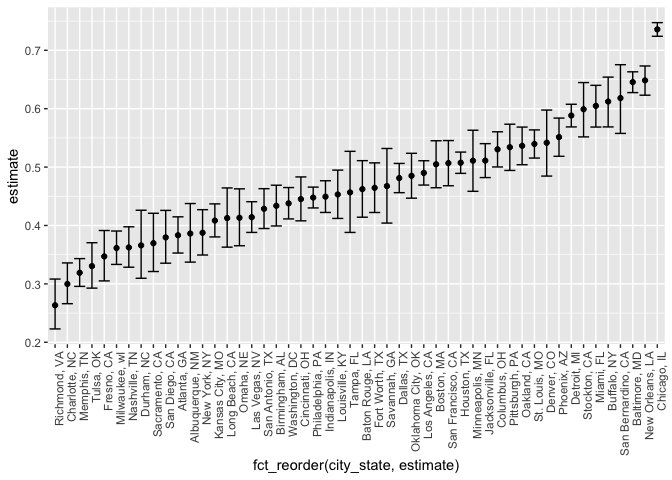
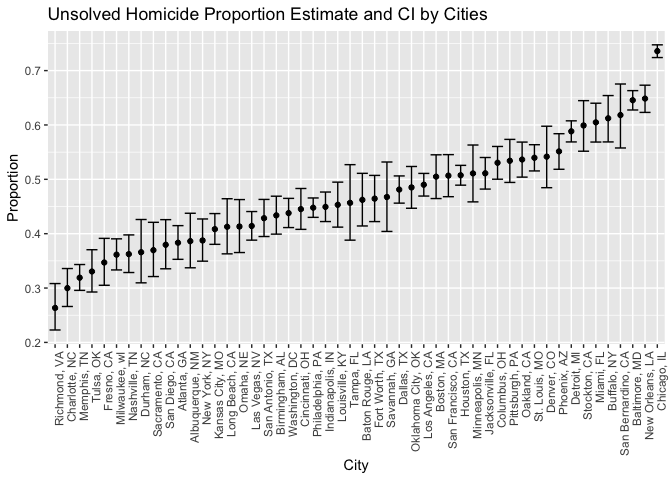
add comment

diff --git a/p8105_hw5_hy2580.md b/p8105_hw5_hy2580.md
@@ -10,15 +10,12 @@ library(purrr)
 library(rvest)
 ```
 
-Problem 1
+### Problem 1
 
-This zip file contains data from a longitudinal study that included a control arm and an experimental arm. Data for each participant is included in a separate file, and file names include the subject ID and arm.
-
-Create a tidy dataframe containing data from all participants, including the subject ID, arm, and observations over time:
-
-Start with a dataframe containing all file names; the list.files function will help
+Read files of the study
 
 ``` r
+# select only study data
 files = list.files("data")[-21]
   
 
@@ -31,11 +28,12 @@ read_file = function(x) {
 study_data = map_df(files, read_file)
 ```
 
-Iterate over file names and read in data for each subject using purrr::map and saving the result as a new variable in the dataframe Tidy the result; manipulate file names to include control arm and subject ID, make sure weekly observations are “tidy”, and do any other tidying that’s necessary
+Tidy Data
 
 ``` r
 tidy_data = study_data %>% 
   select(file_name, everything()) %>% 
+  # separate "file name"" to "arm" and "id""
   separate(file_name, into = c("arm","id"), sep = "_") %>% 
   mutate(arm_id = str_replace(id,".csv", ""),
          id = row_number()) %>% 
@@ -46,38 +44,45 @@ Make a spaghetti plot showing observations on each subject over time, and commen
 
 ``` r
 tidy_data %>% 
-  ggplot(aes(week, observation, group = id, color = arm)) + geom_line()
+  ggplot(aes(week, observation, group = id, color = arm)) + 
+  geom_line() +
+  labs(title = "Observation on Study Participant in Control Arm and in Experimental Arm")
 ```
 
 ![](p8105_hw5_hy2580_files/figure-markdown_github/unnamed-chunk-3-1.png)
 
-Problem 2
+The observation of participants in experimental arm appears to have an upward trend as time goes on, while participants in the control arm doesn't show significant change over time.
 
-The Washington Post has gathered data on homicides in 50 large U.S. cities and made the data available through a GitHub repository here. You can read their accompanying article here.
+### Problem 2
 
-Describe the raw data. Create a city\_state variable (e.g. “Baltimore, MD”) and then summarize within cities to obtain the total number of homicides and the number of unsolved homicides (those for which the disposition is “Closed without arrest” or “Open/No arrest”).
+Import raw data.
 
 ``` r
 homicide_data = read_csv("./data/homicide-data.csv") %>% 
-  janitor::clean_names() %>% 
-  mutate(city_state = paste(city, state, sep = ", "))
+  janitor::clean_names()
 ```
+
+The raw data contains 52179 observations for 12 variables, and the variables are uid, reported\_date, victim\_last, victim\_first, victim\_race, victim\_age, victim\_sex, city, state, lat, lon, disposition
+
+Summarize total homicide and unsolved homicide within city.
 
 ``` r
 city_homicide = homicide_data %>%
+  mutate(city_state = paste(city, state, sep = ", ")) %>% 
   group_by(city_state) %>%
   count(disposition) %>% 
   spread(key = disposition, value = n) %>% 
   janitor::clean_names() %>% 
+  # replace NA by 0
   replace_na(list(closed_by_arrest = 0, closed_without_arrest = 0, open_no_arrest = 0 )) %>%
   mutate(total_homicide = closed_by_arrest + closed_without_arrest + open_no_arrest, 
          unsolved_homicide = closed_without_arrest + open_no_arrest) %>% 
-  select(total_homicide, unsolved_homicide)
+  select(city_state, total_homicide, unsolved_homicide)
 ```
 
-    ## Adding missing grouping variables: `city_state`
-
 In city\_homicide data, there are 51 observation for the three variable. However, the data were supposed only include 50 cities.
+
+Check for abnormality.
 
 ``` r
 city_homicide %>% 
@@ -98,6 +103,7 @@ city_homicide %>%
 
 ``` r
 homicide_data %>% 
+  mutate(city_state = paste(city, state, sep = ", ")) %>%
   filter(city == "Tulsa") %>% 
   select(city_state, lon, lat) %>% 
   arrange(city_state) %>% 
@@ -114,7 +120,9 @@ homicide_data %>%
     ## 5 Tulsa, OK  -95.9  36.1
     ## 6 Tulsa, OK  -95.9  36.2
 
-By arranging the city homicide data, it is clear that while other cities has more than 200 total\_homicide, Tulsa,AL contains only one homicide case,and through web searching, AL doesn't have a city name Tulsa, and the longtidude and latitude shows that Tulsa,AL has the same geographic location as Tulsa, OK. it is likely that the Al was a typo , so I decide to include the data point into Tulsa, OK.
+By arranging the city homicide data, it is clear that while other cities has more than 200 total\_homicide, Tulsa, AL contains only one homicide case, and through web searching, there does not exist a city named Tulsa in AL, and by looking the longtidude and latitude, Tulsa, AL has the same geographic location as Tulsa, OK. It is likely that the Al was a typo , so I decide to include the data point into Tulsa, OK.
+
+Replace the abnormal data point.
 
 ``` r
 city_homicide_adj = city_homicide %>%
@@ -122,7 +130,7 @@ city_homicide_adj = city_homicide %>%
   mutate(total_homicide = ifelse(city_state == "Tulsa, OK", total_homicide + 1, total_homicide))
 ```
 
-For the city of Baltimore, MD, use the prop.test function to estimate the proportion of homicides that are unsolved; save the output of prop.test as an R object, apply the broom::tidy to this object and pull the estimated proportion and confidence intervals from the resulting tidy dataframe.
+Get the estimated proportion and confidence intervals for the city of Baltimore, MD.
 
 ``` r
 baltimore_homicide = city_homicide_adj %>% 
@@ -138,32 +146,27 @@ prop.test(baltimore_homicide$unsolved_homicide,baltimore_homicide$total_homicide
     ##      <dbl>    <dbl>     <dbl>
     ## 1    0.646    0.628     0.663
 
-Now run prop.test for each of the cities in your dataset, and extract both the proportion of unsolved homicides and the confidence interval for each. Do this within a “tidy” pipeline, making use of purrr::map, purrr::map2, list columns and unnest as necessary to create a tidy dataframe with estimated proportions and CIs for each city.
+Now run prop.test for each of the cities
 
 ``` r
-prop_test = function(x) {
-  city_h = city_homicide_adj %>% 
-    filter(city_state == x)
-  
-  prop.test(city_h$unsolved_homicide,city_h$total_homicide) %>%
-    broom::tidy() %>% 
-    mutate(city_state = x) %>% 
-    select(city_state, estimate, conf.low, conf.high)
-    
-}
-
-all_city = map_df(city_homicide_adj$city_state, prop_test)
+city_prop = city_homicide_adj %>% 
+  ungroup() %>% 
+  mutate(parameter = map2(city_homicide_adj$unsolved_homicide, city_homicide_adj$total_homicide, prop.test)) %>% 
+  mutate(parameter = map(parameter, broom::tidy )) %>% 
+  unnest() %>% 
+  select(city_state, estimate, conf.low, conf.high)
 ```
 
+Create a plot that shows the estimates and CIs for each city.
+
 ``` r
-all_city %>% 
+city_prop %>% 
   #mutate(city_state = fct_reorder(city_state),e)
-  ggplot(aes(fct_reorder(city_state, estimate),estimate)) +
+  ggplot(aes(fct_reorder(city_state, estimate),estimate, ymin = conf.low, ymax = conf.high)) +
   geom_point() +
-  geom_errorbar(mapping = aes(x = fct_reorder(city_state, estimate) , ymin = conf.low, ymax = conf.high )) +
-  theme(axis.text.x = element_text(angle = 90, hjust = 1) ) 
+  geom_errorbar() +
+  theme(axis.text.x = element_text(angle = 90, hjust = 1) ) +
+  labs(x = "City", y = "Proportion", title = "Unsolved Homicide Proportion Estimate and CI by Cities")
 ```
 
 ![](p8105_hw5_hy2580_files/figure-markdown_github/unnamed-chunk-10-1.png)
-
-Create a plot that shows the estimates and CIs for each city – check out geom\_errorbar for a way to add error bars based on the upper and lower limits. Organize cities according to the proportion of unsolved homicides.
